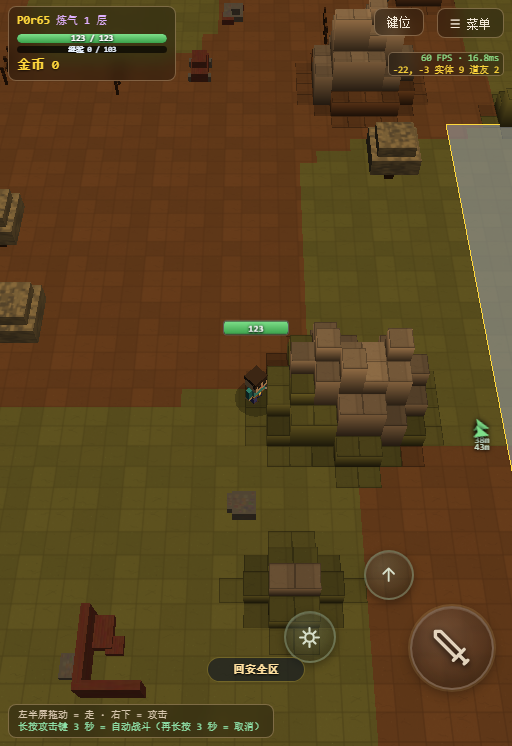
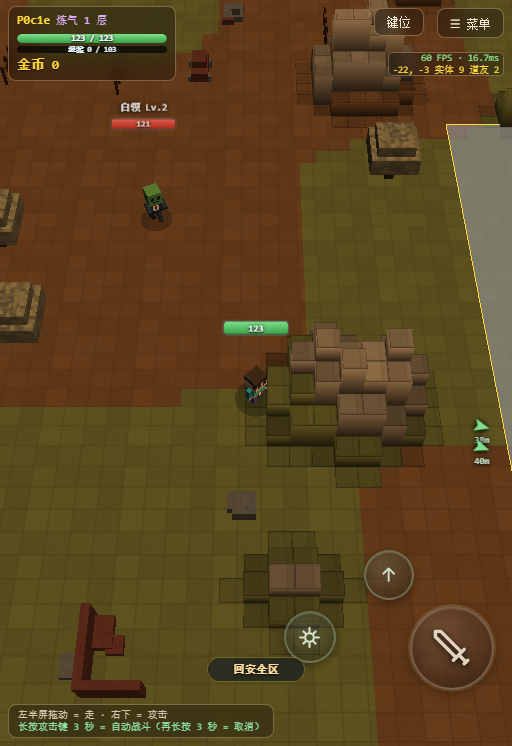
the animations were addressed to nobody, and other people's damage is visible now
Every effect broadcast carried the connection id as its author, while the client indexes
players by role id. Nothing ever matched, so every one of those broadcasts was received and
discarded - the effects existed only for the player who caused them, which is what the user
saw.

With the author corrected, the damage reports other players produce are also broadcast, so a
number appears when someone else lands a hit. The attacker is skipped in that broadcast
because they already receive their own report, and would otherwise see two numbers per hit.

diff --git a/web/platform/web.js b/web/platform/web.js
@@ -5154,12 +5154,19 @@ function wsOnMessage(raw) {
     /* ★★★ round398（用户："这些动画要做同步，不然别人看不到"）★★★
        ★ 服务端现在会把特效广播给周围 ✗ 带上 by = 谁在放 ✓
        ★ 不是我就记到那个玩家身上 ✗ 渲染时按他的状态播 ✓ */
+    /* ★ round400：别人打的伤害 → 弹一个灰色数字 */
+    if (d.kind === 'dmg') {
+      var _dmgTxt = String(+d.v || 0) + (d.crit ? ' 暴击' : '');
+      dmg(_dmgTxt, +d.x, 2.4, +d.z, !!d.crit);
+      return;
+    }
     var _fxOp = d.by;
     var _fxMine = (_fxOp === undefined) || (_fxOp === null) ||
                   (typeof WSC !== 'undefined' && _fxOp === WSC.myId);
     if (!_fxMine) {
       var _ro = (NET.others && NET.others[_fxOp]) ? NET.others[_fxOp] : null;
       if (_ro) {
+        // ★ 记到那个玩家头上 ✓
         if (d.kind === 'saber') { _ro.multiN = Math.max(2, Math.min(13, +d.n || 2)); _ro.multiT0 = performance.now(); }
         if (d.kind === 'staff') { _ro.staffT0 = performance.now() - 120; _ro.staffLen = +d.len || 4; }
         if (d.kind === 'spin') { _ro.spinUntil = performance.now() + 560; }

diff --git a/server/world.py b/server/world.py
@@ -1694,9 +1694,16 @@ class World(object):
         ★ 40 米够了 ✗ 比视野略大 ✓ 再远也看不清 ✓
         """
         payload = dict(payload)
-        payload['by'] = p.cid          # ★ 客户端要按它找"是哪个玩家在放招"✓
+        # ★★★ round400 修的真 bug（用户："都没有"）★★★
+        #   ★ 原来发的是 p.cid（连接 id）✗
+        #     而客户端认玩家用的是【role_id】（NET.others 的 key ✓）
+        #     → 永远匹配不到 → 什么都不播 ✓
+        payload['by'] = p.role_id
         v2 = 40.0 * 40.0
+        _skip = payload.pop('_skip', None)
         for _q in self.players.values():
+            if _skip and _q.cid == _skip:
+                continue                 # ★ 攻击者自己有 mhits 了 ✗ 别重复弹 ✓
             if (_q.x - p.x) ** 2 + (_q.z - p.z) ** 2 <= v2:
                 try:
                     self._send_cid(_q.cid, P.pack('fx', **payload))
@@ -4360,6 +4367,13 @@ class World(object):
             #   ★ 暴击是 mhits 里的信息 ✗ 只发给我 ✓ → 额外广播一条 ✓
             if crit:
                 self._fx_broadcast(p, {'kind': 'crit'})
+            # ★ round400（用户："把别人打的伤害也显示出来"）
+            #   ★ mhits 只发给我 ✗ 别人看不到我在打多少 ✓ → 广播一条 ✓
+            #   ★ _skip = 我自己 ✗ 我已经有 mhits 了 ✓ 不重复弹数字 ✓
+            self._fx_broadcast(p, {'kind': 'dmg', 'v': int(dv),
+                                   'crit': 1 if crit else 0,
+                                   'x': round(m.x, 2), 'z': round(m.z, 2),
+                                   '_skip': p.cid})
             self._weapon_fx(p, m, _fxRun, dv)
 
             if m.hp <= 0:
